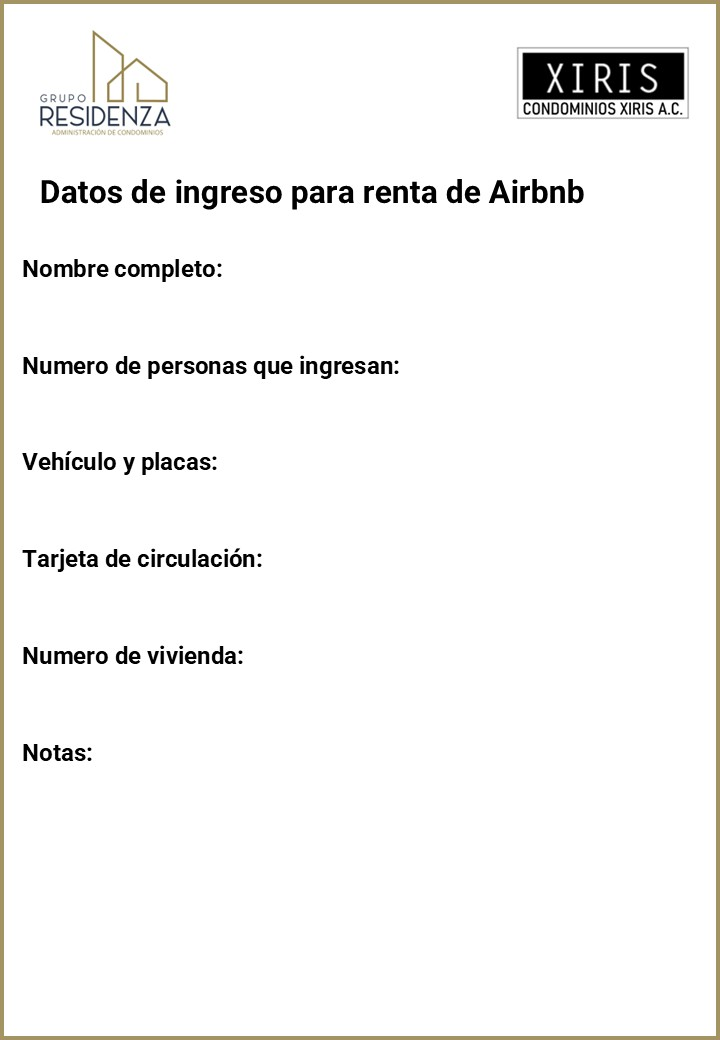
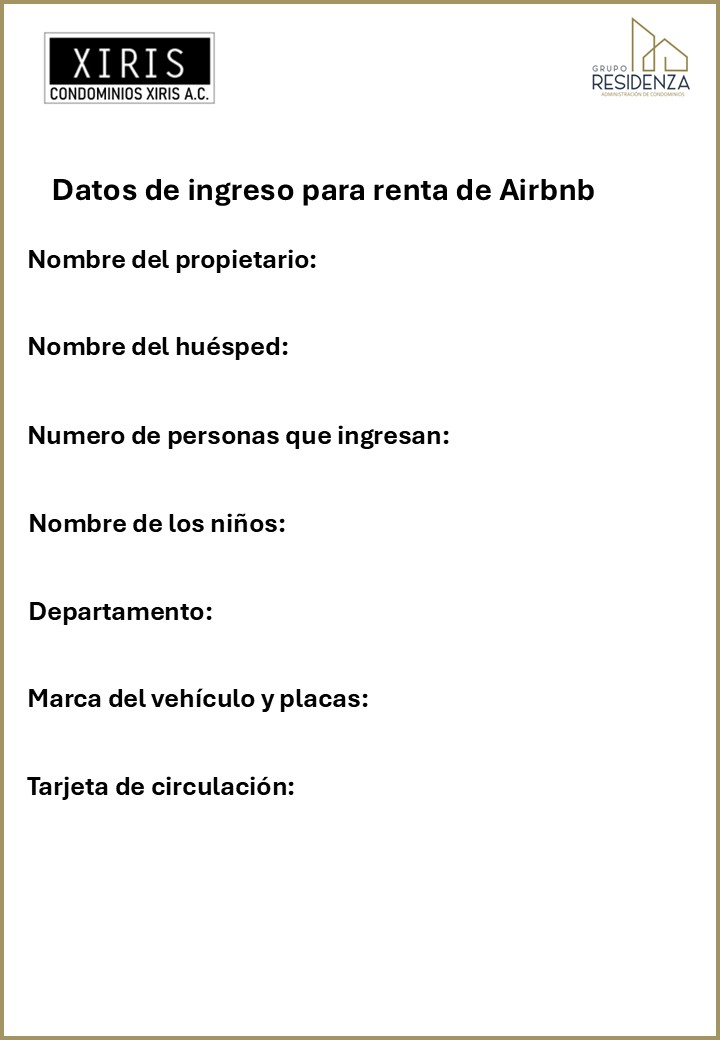
cambios realizados conforme a petición del cliente

diff --git a/src/mudanzas_form.jsx b/src/mudanzas_form.jsx
@@ -1,23 +1,30 @@
 import { useState, useEffect } from "react";
-import { TextField, Button, Container, FormControl } from "@mui/material";
+import { TextField, Button, Container, FormControl, Snackbar, Alert } from "@mui/material";
 import { jsPDF } from "jspdf";
 import background from "/home/alex1986/aviso_mudanza_xiris/src/assets/airbnb_xiris.jpg";
 import CropImage from "./componentes/crop/cropimage";
+import page2Background from "./assets/airbnb_xiris_pagina_2.jpg"
 
 function MudanzasForm() {
   const [formData, setFormData] = useState({
+    nombrePropietario: "",
+    nombrehuesped: "",
     nombreCompleto: "",
     numeroPersonas: "",
     marcaVehiculo: "",
     tarjetaCirculacion: "",
-    empresaMudanza: "",
-    datosChofer: "",
+    departamento: "",
+    nombreNinos: "",
     notas: "",
   });
 
   const [imageSrc, setImageSrc] = useState(null);
   const [croppedImages, setCroppedImages] = useState([]);
   const [backgroundImage, setBackgroundImage] = useState(null);
+  const [snackbarOpen, setSnackbarOpen] = useState(false); // Estado para el Snackbar
+  const [snackbarMessage, setSnackbarMessage] = useState(""); // Mensaje del Snackbar
+  const [snackbarSeverity, setSnackbarSeverity] = useState("success"); // Severidad del Snackbar
+
 
   useEffect(() => {
     const img = new Image();
@@ -49,6 +56,16 @@ function MudanzasForm() {
   const handleCropComplete = (croppedImage) => {
     setCroppedImages((prevImages) => [...prevImages, croppedImage]);
     setImageSrc(null);
+    setSnackbarMessage("Imagen agregada correctamente."); // Mensaje de éxito
+    setSnackbarSeverity("success");
+    setSnackbarOpen(true); // Abre el Snackbar
+  };
+
+  const handleSnackbarClose = (event, reason) => {
+    if (reason === "clickaway") {
+      return;
+    }
+    setSnackbarOpen(false); // Cierra el Snackbar
   };
 
   const generatePDF = () => {
@@ -58,20 +75,37 @@ function MudanzasForm() {
       pdf.addImage(backgroundImage, "JPEG", 0, 0, 446, 631);
     }
 
-    pdf.text(formData.nombreCompleto, 100, 290);
-    pdf.text(formData.numeroPersonas, 100, 385);
-    pdf.text(formData.marcaVehiculo, 100, 475);
-    pdf.text(formData.tarjetaCirculacion, 100, 570);
-    pdf.text(formData.empresaMudanza, 100, 660);
-    pdf.text(formData.datosChofer, 275, 775);
-    pdf.text(formData.notas, 20, 750);
+    pdf.text(formData.nombrePropietario, 100, 190);
+    pdf.text(formData.nombrehuesped, 100, 245);
+    pdf.text(formData.nombreCompleto, 100, 190);
+    pdf.text(formData.numeroPersonas, 100, 295);
+    pdf.text(formData.marcaVehiculo, 100, 450);
+    pdf.text(formData.tarjetaCirculacion, 100, 500);
+    pdf.text(formData.departamento, 100, 400);
+    pdf.text(formData.nombreNinos, 100, 345);
 
     croppedImages.forEach((img) => {
       pdf.addPage();
-      pdf.addImage(img, "PNG", 50, 100, 295, 202);
+      pdf.addImage(page2Background, "JPEG", 0, 0, 446, 631);
+      pdf.addImage(img, "PNG", 50, 150, 295, 202);
     });
 
     pdf.save(`Autorizacion_${formData.nombreCompleto}.pdf`);
+
+    //Limpiar los campos
+    setFormData({
+      nombrePropietario: "",
+      nombrehuesped: "",
+      nombreCompleto: "",
+      numeroPersonas: "",
+      marcaVehiculo: "",
+      tarjetaCirculacion: "",
+      departamento: "",
+      nombreNinos: "",
+      notas: "",
+    });
+
+    setCroppedImages([]); // Limpiar las imágenes cargadas
   };
 
   return (
@@ -79,17 +113,41 @@ function MudanzasForm() {
       <form>
         <FormControl fullWidth margin="normal">
           <TextField
-            label="Nombre Completo"
-            name="nombreCompleto"
-            value={formData.nombreCompleto}
+            label="Nombre del Propietario"
+            name="nombrePropietario"
+            value={formData.nombrePropietario}
             onChange={handleChange}
           />
         </FormControl>
         <FormControl fullWidth margin="normal">
           <TextField
-            label="Número de Personas"
+            label="Nombre del huesped"
+            name="nombrehuesped"
+            value={formData.nombrehuesped}
+            onChange={handleChange}
+          />
+        </FormControl>
+        <FormControl fullWidth margin="normal">
+          <TextField
+            label="Número de Personas que ingresan"
             name="numeroPersonas"
             value={formData.numeroPersonas}
+            onChange={handleChange}
+          />
+        </FormControl>
+        <FormControl fullWidth margin="normal">
+          <TextField
+            label="Departamento"
+            name="departamento"
+            value={formData.departamento}
+            onChange={handleChange}
+          />
+        </FormControl>
+        <FormControl fullWidth margin="normal">
+          <TextField
+            label="Nombre de niños"
+            name="nombreNinos"
+            value={formData.nombreNinos}
             onChange={handleChange}
           />
         </FormControl>
@@ -101,7 +159,15 @@ function MudanzasForm() {
             onChange={handleChange}
           />
         </FormControl>
-        <input type="file" accept="image/*" onChange={handleImageUpload} />
+        <FormControl fullWidth margin="normal">
+          <TextField
+            label="Tarjeta de Circulación (Debe coincidir con placas)"
+            name="tarjetaCirculacion"
+            value={formData.tarjetaCirculacion}
+            onChange={handleChange}
+          />
+          </FormControl>
+        <input type="file" accept="image/*" onChange={handleImageUpload}/>
         {imageSrc && (
           <CropImage
             imageSrc={imageSrc}
@@ -112,6 +178,12 @@ function MudanzasForm() {
         <Button variant="contained" style={{ marginTop: "20px" }} onClick={generatePDF}>
           Generar PDF
         </Button>
+        {/* Snackbar para la confirmación */}
+        <Snackbar open={snackbarOpen} autoHideDuration={3000} onClose={handleSnackbarClose}>
+          <Alert onClose={handleSnackbarClose} severity={snackbarSeverity}>
+            {snackbarMessage}
+          </Alert>
+        </Snackbar>
       </form>
     </Container>
   );

diff --git a/src/App.jsx b/src/App.jsx
@@ -42,8 +42,7 @@ function App() {
           Formulario para Airbnb, Condominio Xiris.
         </Typography>
         <Typography sx={{ color: '#262161', mt: 2 }}>
-          Por favor llena los campos, descarga la imagen con el botón al final de la página. 
-          Esta imagen compártela al administrador del condominio.
+          Por favor llena los campos, ingresa las identificaciones de los mayores de edad, junto con una imagen de la tarjeta de circulación, la tarjeta de circulación debe coincidir con las placas. Descarga el pdf con el botón al final de la página y compártela al administrador del condominio.
         </Typography>
       </header>
       <Mudanzas_form />
